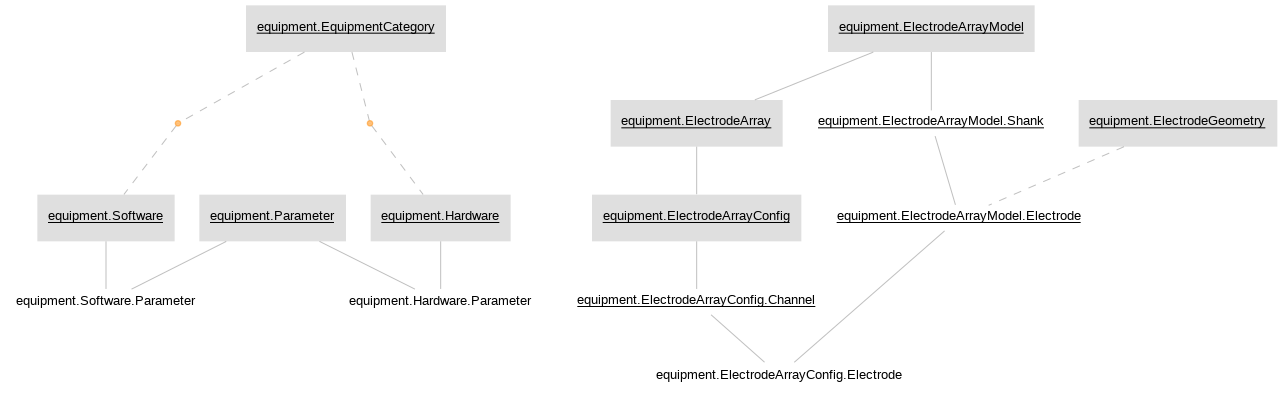
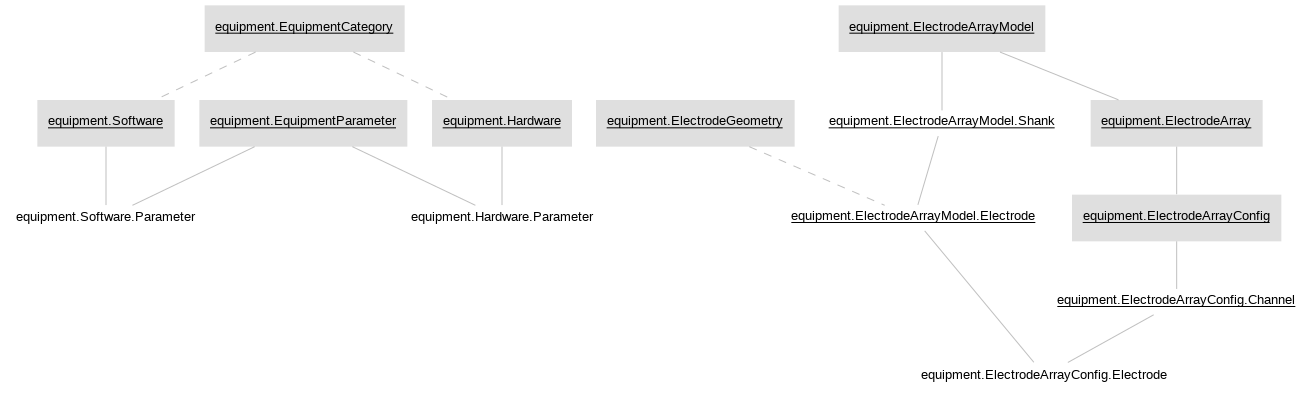
Updated README and ERDs

diff --git a/README.md b/README.md
@@ -1,57 +1,257 @@
 # Churchland Lab Pipeline
 
-## Working with Python
+[U19 DataJoint documentation](https://confluence.columbia.edu/confluence/pages/viewpage.action?spaceKey=zmbbi&title=Datajoint)
 
-### Installation and setup
+## Getting started
 
-1. Install [Docker](https://docs.docker.com/get-docker/). Then, if you are using Linux, install [Docker compose](https://docs.docker.com/compose/install/) (compose comes with Docker for Mac and Windows).
+### Users
 
-2. Fork the repository (https://github.com/ZuckermanBrain/datajoint-churchland) onto your own GitHub account by clicking on the 'Fork' button in the top right corner of Github.
+If you simply want to access data stored in the database, but do not plan on making any changes, then follow the steps below, depending on your language of choice.
 
-3. Clone the forked repository to your local machine by running (after replacing YOUR-USERNAME with your GitHub username):
+#### Python
+
+1. **Create a virtual environment.**
+
+    To create and activate an Anaconda environment (e.g., called "datajoint"), enter:
+
     ```console
-    $ git clone https://github.com:YOUR-USERNAME/datajoint-churchland.git
+    $ conda create -n datajoint python
+    $ conda activate datajoint
     ```
-    __Important:__ do *not* clone the repo from `ZukermanBrain`, but the one that you forked onto your own account!
+    
+2. **Install the pipline.**
 
-4. Copy the file `.env_template` and rename it to `.env` in your favorite text editor in the cloned directory and **modify hostname, username and password values** inside `.env` file. This environment file specifies the credentials, and you will not need to enter these information while connecting to the DataJoint database inside the docker container
+    The [main repository](https://github.com/ZuckermanBrain/datajoint-churchland) (and its dependencies?) can be installed locally directly from git:
 
-5. Now let's start to setup the docker environment. Inside the repository, run 
     ```console
-    $ docker-compose up -d
-    ```
-    which sets up the docker environment with packages pre-installed. The files that customize the settings are `Dockerfile` and `docker-compose.yml`. After it is finished, you can check the status of the docker container by running 
-    ```console
-    $ docker ps
-    ```
-
-### Running
-
-1. Create the docker container by running 
-    ```console
-    $ docker exec -it datajoint-churchland_datajoint_1 /bin/bash
+    $ python -m pip install git+https://github.com/ZuckermanBrain/datajoint-churchland.git
     ```
 
-2. You are able to run python or ipython here.
+3. **Connect to the remote (U19) database server.**
 
-### Important notes about the directory
+    Setup the connnection using DataJoint's `config` object. With the python interpreter or a jupyter notebook, enter:
 
-- `churchland_pipeline_python`: this is the main pipeline package. All the schema designs go into this directory. Inside the docker contained, it is mapped to `/src/datajoint-churchland/churchland_pipeline_python`. It is also preinstalled (editable) into the docker container, so inside the container, you can do `import churchland_pipeline` anywhere.
+    ```python
+    import datajoint as dj
+    dj.config['database.host'] = 'HOST_ADDRESS'
+    dj.config['database.user'] = 'YOUR_UNI'
+    dj.config['database.password'] = 'PASSWORD'
+    ```
 
-- All subdirectories in `datajoint-churchland` must be included as a listed volume in `docker-compose`. Add additional volumes as needed.
+    after replacing YOUR_UNI with your Columbia uni. You will also need to acquire the database password from the lab admin. 
+    
+    To save your configuration in your local working directory, use `dj.config.save_local()`. Or, to save the configuration for all your projects, use `dj.config.save_global()`.
 
-## Working with MATLAB
+4. **Query a table.**
 
-?
+    You can import the entire pipeline or specific schemas with
 
-## Staying up-to date
+    ```python
+    from churchland_pipeline_python import *
+    ```
+    or
+    ```python
+    import churchland_pipeline_python.PACKAGE_NAME
+    ```
 
-To stay up-to-date with the latest code from DataJoint, you might first want to check by `git remote -v`.
-If there is no upstream pointing to the ZuckermanBrain repository, then do `git remote add upstream https://github.com/ZuckermanBrain/datajoint-churchland`.
+    where PACKAGE_NAME is the name of the sub-directory under churchland_pipeline_python.
 
-Then `git pull upstream master` will make sure that your local fork stays up to date with the original repo.
+    To query a table, use
+    
+    ```python
+    PACKAGE_NAME.TABLE_NAME()
+    ```
+    
+    As a concrete example, replace PACKAGE_NAME with `lab` and TABLE_NAME with `Monkey` (i.e., `lab.Monkey()`).
 
-## Contributing code
+#### MATLAB
+
+1. **Install DataJoint.** 
+
+    If using MATLAB > R2016b, this can be done from the built-in toolbar by navigating to _Home > Add-Ons > Get Add-Ons_. Search and select `DataJoint`, then select `Add from GitHub`. For other options, see the [DataJoint Installation Guide](https://github.com/datajoint/datajoint-matlab#installation).
+
+2. **Clone the pipeline.** 
+
+    Next, open the terminal and navigate to the directory where you want to store the pipeline files. Create a clone (local copy of the git repository) of the [main repository](https://github.com/ZuckermanBrain/datajoint-churchland) with the following command:
+
+    ```console
+    $ git clone https://github.com/ZuckermanBrain/datajoint-churchland.git
+    ```
+
+3. **Connect to the remote (U19) database server.** 
+
+    From the MATLAB command window, enter the following commands:
+
+    ```Matlab
+    >> setenv('DJ_HOST', 'HOST_ADDRESS')
+    >> setenv('DJ_USER', 'YOUR_UNI')
+    >> setenv('DJ_PASS', 'PASSWORD')
+    ```
+
+    after replacing YOUR_UNI with your Columbia uni. You will also need to acquire the database password from the lab admin. 
+    
+    Verify the connection status by entering
+
+    ```Matlab
+    >> dj.conn()
+    ```
+
+    If you get a message that displays a connection_id and various connection properties (e.g, host name, user), then you're connected!
+
+4. **Query a table.** 
+
+    First, ensure that the cloned pipeline is on your MATLAB path. Then, enter in the command window:
+
+    ```Matlab
+    >> schema = PACKAGE_NAME.getSchema
+    ```
+    where PACKAGE_NAME is the name of the sub-directory under churchland_pipeline_matlab (prepended with a '+'). This will display all the tables in the schema. 
+    
+    To query a table, use
+
+    ```Matlab
+    >> schema.v.TABLE_NAME
+    ```
+
+    Again, you can find a list of all tables by re-entering `schema` in the command window. 
+    
+    You can replace `schema` with any variable name of your choosing. As a concrete example, try the following:
+
+    ```Matlab
+    >> lab = lab.getSchema
+    >> lab.v.Monkey
+    ```
+
+### Contributers
+
+If you want to access and develop on the database as well as easily stay up to date, then take the following steps. The first couple of steps are the same, regardless of your language of choice.
+
+#### Python
+
+1. **Fork the main repo.**
+
+    Sign in to your GitHub account, navigate to https://github.com/ZuckermanBrain/datajoint-churchland, and click `fork` in the top-right corner of the page.
+
+2. **Clone your fork.**
+
+    On your local machine, navigate to the directory where you want to store the pipeline files. Create a clone of _your forked repo_ with the following command:
+
+    ```console
+    $ git clone https://github.com/YOUR_USERNAME/datajoint-churchland.git
+    ```
+
+    after replacing YOUR_USERNAME with your GitHub username.
+
+3. **Create a virtual environment.**
+
+    To create and activate an Anaconda environment (e.g., called "datajoint"), enter
+
+    ```console
+    $ conda create -n datajoint python
+    $ conda activate datajoint
+    ```
+
+4. **Install an editable copy of the pipeline.**
+
+    From within a jupyter notebook, execute
+
+    ```python
+    !{sys.executable} -m pip install PATH/TO/datajoint-churchland
+    ```
+
+5. **Setup environment variables.**
+
+    Copy the file `.env_template` and rename it to `.env` in your favorite text editor in the cloned directory and **modify hostname, username and password values** inside `.env` file. This environment file specifies the credentials.
+
+6. **Query a table.**
+
+    You can import a schema with
+
+    ```python
+    from churchland_pipeline_python import PACKAGE_NAME
+    ```
+
+    where PACKAGE_NAME is the name of the sub-directory under churchland_pipeline_python. You can also replace PACKAGE_NAME with `*` to import all schemas.
+
+    To query a table, use
+    
+    ```python
+    PACKAGE_NAME.TABLE_NAME()
+    ```
+    
+    As a concrete example, replace PACKAGE_NAME with `lab` and TABLE_NAME with `Monkey` (i.e., `lab.Monkey()`).
+
+#### MATLAB
+
+1. **Fork the main repo.**
+
+    Sign in to your GitHub account, navigate to https://github.com/ZuckermanBrain/datajoint-churchland, and click `fork` in the top-right corner of the page.
+
+2. **Clone your fork.**
+
+    On your local machine, navigate to the directory where you want to store the pipeline files. Create a clone of _your forked repo_ with the following command:
+
+    ```console
+    $ git clone https://github.com/YOUR_USERNAME/datajoint-churchland.git
+    ```
+
+    after replacing YOUR_USERNAME with your GitHub username.
+
+3. **Install DataJoint.** 
+
+    If using MATLAB > R2016b, this can be done from the built-in toolbar by navigating to _Home > Add-Ons > Get Add-Ons_. Search and select `DataJoint`, then select `Add from GitHub`. For other options, see the [DataJoint Installation Guide](https://github.com/datajoint/datajoint-matlab#installation).
+
+4. **Connect to the remote (U19) database server.** 
+
+    From the MATLAB command window, enter the following commands:
+
+    ```Matlab
+    >> setenv('DJ_HOST', 'HOST_ADDRESS')
+    >> setenv('DJ_USER', 'YOUR_UNI')
+    >> setenv('DJ_PASS', 'PASSWORD')
+    ```
+
+    after replacing YOUR_UNI with your Columbia uni. You will also need to acquire the database password from the lab admin. 
+    
+    Verify the connection status by entering
+
+    ```Matlab
+    >> dj.conn()
+    ```
+
+    If you get a message that displays a connection_id and various connection properties (e.g, host name, user), then you're connected!
+
+4. **Query a table.** 
+
+    First, ensure that your cloned fork is on your MATLAB path. To query a table, use
+    
+    ```Matlab
+    >> PACKAGE_NAME.TABLE_NAME()
+    ```
+    
+    where PACKAGE_NAME is the name of the sub-directory under churchland_pipeline_matlab (prepended with a '+'). To find a list of tables for a given package, use 
+    
+    ```Matlab
+    >> help PACKAGE_NAME
+    ```
+
+#### Staying up-to date
+
+To stay up-to-date with the main repo, you will need to configure Zuckerman Brain as 'upstream' for your fork. Check this in the terminal by running
+
+```console
+$ git remote -v
+```
+
+If there is no upstream pointing to the Zuckerman Brain repository, then execute
+
+```console
+$ git remote add upstream https://github.com/ZuckermanBrain/datajoint-churchland`.
+```
+
+Then use `git pull upstream master` to pull the changes from the upstream repo into your local fork.
+
+#### Contributing code
 
 If you feel happy with the changes you've made, you can add, commit and push them to your own branch. Then go to your fork on Github, click 'Pull requests', 'New pull request', 'compare across forks', and select your fork of `datajoint-churchland`. If there are no merge conflicts, you can click 'Create pull request', explain what changes/contributions you've made, and and submit it to the DataJoint team for approval.
 
